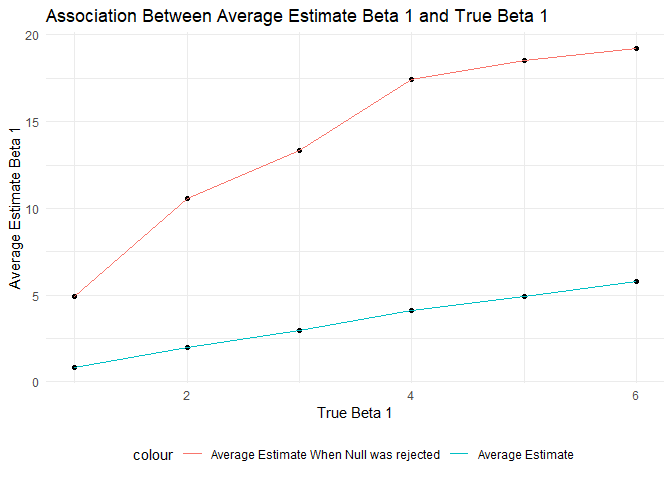
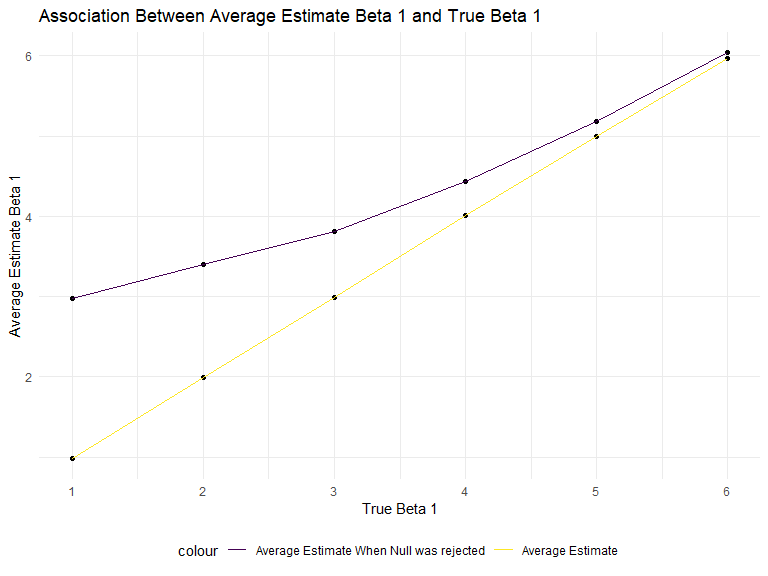
comment change and rnorm() false correction

diff --git a/p8105_hw5_gx2144.md b/p8105_hw5_gx2144.md
@@ -9,18 +9,33 @@ Guangling Xu
 library(tidyverse)
 ```
 
-    ## -- Attaching packages ----------------------------------- tidyverse 1.2.1 --
+    ## -- Attaching packages -------------------------------- tidyverse 1.2.1 --
 
     ## √ ggplot2 3.2.1     √ purrr   0.3.2
     ## √ tibble  2.1.3     √ dplyr   0.8.3
     ## √ tidyr   1.0.0     √ stringr 1.4.0
     ## √ readr   1.3.1     √ forcats 0.4.0
 
-    ## -- Conflicts -------------------------------------- tidyverse_conflicts() --
+    ## -- Conflicts ----------------------------------- tidyverse_conflicts() --
     ## x dplyr::filter() masks stats::filter()
     ## x dplyr::lag()    masks stats::lag()
 
 ``` r
+knitr::opts_chunk$set(
+    echo = TRUE,
+    warning = FALSE,
+    fig.width = 8, 
+  fig.height = 6,
+  out.width = "90%"
+)
+options(
+  ggplot2.continuous.colour = "viridis",
+  ggplot2.continuous.fill = "viridis"
+)
+scale_colour_discrete = scale_colour_viridis_d
+scale_fill_discrete = scale_fill_viridis_d
+theme_set(theme_minimal() + theme(legend.position = "bottom"))
+
 set.seed(10)
 
 iris_with_missing = iris %>% 
@@ -28,7 +43,7 @@ iris_with_missing = iris %>%
   mutate(Species = as.character(Species))
 ```
 
-## filling missing values
+### Filling missing values
 
 ``` r
 check = function(x) {
@@ -41,9 +56,24 @@ check = function(x) {
   x 
 }
 
-output = map(iris_with_missing, check) %>% 
+map(iris_with_missing, check) %>% 
 bind_cols()
 ```
+
+    ## # A tibble: 150 x 5
+    ##    Sepal.Length Sepal.Width Petal.Length Petal.Width Species
+    ##           <dbl>       <dbl>        <dbl>       <dbl> <chr>  
+    ##  1         5.1          3.5         1.4         0.2  setosa 
+    ##  2         4.9          3           1.4         0.2  setosa 
+    ##  3         4.7          3.2         1.3         0.2  setosa 
+    ##  4         4.6          3.1         1.5         1.19 setosa 
+    ##  5         5            3.6         1.4         0.2  setosa 
+    ##  6         5.4          3.9         1.7         0.4  setosa 
+    ##  7         5.82         3.4         1.4         0.3  setosa 
+    ##  8         5            3.4         1.5         0.2  setosa 
+    ##  9         4.4          2.9         1.4         0.2  setosa 
+    ## 10         4.9          3.1         3.77        0.1  setosa 
+    ## # ... with 140 more rows
 
 ## Problem 2
 
@@ -66,12 +96,33 @@ mergedata = map(names, read_data) %>%
     ID = str_remove(ID, ".csv")
     ) %>% 
   select(Group, ID, everything())
+ 
+mergedata
 ```
 
-    ## Warning in FUN(X[[i]], ...): strings not representable in native encoding
-    ## will be translated to UTF-8
+    ##    Group ID week_1 week_2 week_3 week_4 week_5 week_6 week_7 week_8
+    ## 1    con 01   0.20  -1.31   0.66   1.96   0.23   1.09   0.05   1.94
+    ## 2    con 02   1.13  -0.88   1.07   0.17  -0.83  -0.31   1.58   0.44
+    ## 3    con 03   1.77   3.11   2.22   3.26   3.31   0.89   1.88   1.01
+    ## 4    con 04   1.04   3.66   1.22   2.33   1.47   2.70   1.87   1.66
+    ## 5    con 05   0.47  -0.58  -0.09  -1.37  -0.32  -2.17   0.45   0.48
+    ## 6    con 06   2.37   2.50   1.59  -0.16   2.08   3.07   0.78   2.35
+    ## 7    con 07   0.03   1.21   1.13   0.64   0.49  -0.12  -0.07   0.46
+    ## 8    con 08  -0.08   1.42   0.09   0.36   1.18  -1.16   0.33  -0.44
+    ## 9    con 09   0.08   1.24   1.44   0.41   0.95   2.75   0.30   0.03
+    ## 10   con 10   2.14   1.15   2.52   3.44   4.26   0.97   2.73  -0.53
+    ## 11   exp 01   3.05   3.67   4.84   5.80   6.33   5.46   6.38   5.91
+    ## 12   exp 02  -0.84   2.63   1.64   2.58   1.24   2.32   3.11   3.78
+    ## 13   exp 03   2.15   2.08   1.82   2.84   3.36   3.61   3.37   3.74
+    ## 14   exp 04  -0.62   2.54   3.78   2.73   4.49   5.82   6.00   6.49
+    ## 15   exp 05   0.70   3.33   5.34   5.57   6.90   6.66   6.24   6.95
+    ## 16   exp 06   3.73   4.08   5.40   6.41   4.87   6.09   7.66   5.83
+    ## 17   exp 07   1.18   2.35   1.23   1.17   2.02   1.61   3.13   4.88
+    ## 18   exp 08   1.37   1.43   1.84   3.60   3.80   4.72   4.68   5.70
+    ## 19   exp 09  -0.40   1.08   2.66   2.70   2.80   2.64   3.51   3.27
+    ## 20   exp 10   1.09   2.80   2.80   4.30   2.25   6.57   6.09   4.64
 
-## Make a spaghetti plot
+### Make a spaghetti plot
 
 ``` r
 tidy_mergedata = 
@@ -95,16 +146,24 @@ ggplot(tidy_mergedata,aes(x = Week,y = Value))+
   )
 ```
 
-![](p8105_hw5_gx2144_files/figure-gfm/unnamed-chunk-3-1.png)<!-- -->
+<img src="p8105_hw5_gx2144_files/figure-gfm/unnamed-chunk-3-1.png" width="90%" />
 
-\#\#Problem 3
+  - Comment:
+
+The experiment group has higher observation value than the control group
+on average. Overall, values in experiment group got higher as week went
+by while values in control group got lower while week went by.
+
+## Problem 3
+
+### Regression when Beta Equals 0
 
 ``` r
 sim_regression = function(beta1) {
   
   sim_data = tibble(
     x = rnorm(30, mean = 0, sd = 1),
-    y = 2 + beta1 * x + rnorm(30, 0, 50)
+    y = 2 + beta1 * x + rnorm(30, 0, sqrt(50))
   )
   
   ls_fit = lm(y ~ x, data = sim_data) %>% 
@@ -121,7 +180,7 @@ sim_results =
   bind_rows()
 ```
 
-### Dataset When beta = 1-6
+### Regression when Beta Equals 1-6
 
 ``` r
 simulate_n_regressions = 
@@ -140,12 +199,6 @@ sim_results2 =
   unnest
 ```
 
-    ## Warning: `cols` is now required.
-    ## Please use `cols = c(estimate_dfs)`
-
-    ## Warning: `cols` is now required.
-    ## Please use `cols = c()`
-
 ### Make a Plot reporting the proportion of times the null was rejected
 
 ``` r
@@ -163,14 +216,20 @@ ggplot(plot1, aes(x = beta1,y = power))+
     title = "Association Between True Beta 1 and Power",
     x = "True Beta 1",
     y = "Power"
-  )
+  )+
+  scale_x_continuous(
+    breaks = c(0,1,2,3,4,5,6), 
+    labels = c(0,1,2,3,4,5,6)) 
 ```
 
-![](p8105_hw5_gx2144_files/figure-gfm/unnamed-chunk-6-1.png)<!-- -->
+<img src="p8105_hw5_gx2144_files/figure-gfm/unnamed-chunk-6-1.png" width="90%" />
 
-  - comment From the plot we can see that Power increases as True Beta1
-    increases.There is a positive relationship between True Beta1 and
-    Power.
+  - Comment:
+
+From the plot we can see that Power increases as True β1 increases.There
+is a positive relationship between True β1 and Power. Since H: β1 = 0
+and Power = Φ (Z+ (μ0-μ1)/σ \* √n),we can see that as effect size μ0-μ1
+increases, power increases.
 
 ### Plot of Average of Estimated Beta and True value of Beta
 
@@ -204,7 +263,28 @@ ggplot(binddata, aes(x = beta1))+
     title = "Association Between Average Estimate Beta 1 and True Beta 1",
     x = "True Beta 1",
     y = "Average Estimate Beta 1"
-  )
+  )+
+  scale_x_continuous(
+    breaks = c(0,1,2,3,4,5,6), 
+    labels = c(0,1,2,3,4,5,6)) 
 ```
 
-![](p8105_hw5_gx2144_files/figure-gfm/unnamed-chunk-7-1.png)<!-- -->
+<img src="p8105_hw5_gx2144_files/figure-gfm/unnamed-chunk-7-1.png" width="90%" />
+
+  - Comment：
+
+According to graph above, the slope of the yellow line which denotes the
+relationship between the true β1 and average estimate β1 with compeleted
+data equals to 1. The sample average of estimated β1 across tests for
+which the null is rejected does not equal to the true value of β1 when
+β1 is 1, 2 and 3 but close to value of true β1 when β1 is small(β1 = 0)
+or β1 is big(β1 = 4, 5 and 6).The reason behind this is that when true
+β1 is small, power is small, which means that proportion of times the
+null was rejected is small. So average of estimated β1 across tests for
+which the null is rejected filtered β1 = 0 so that it is larger than the
+average estimate β1 with compeleted data. However, when β1 gets bigger,
+effect size gets bigger, power gets bigger, proportion of times the null
+was rejected gets bigger. This leads to the fact that the proportion of
+β1 = 0 gets smaller so that average of estimated β1 across tests for
+which the null is rejected gets closer to average estimate β1 with
+compeleted data when true β1 gets bigger.
